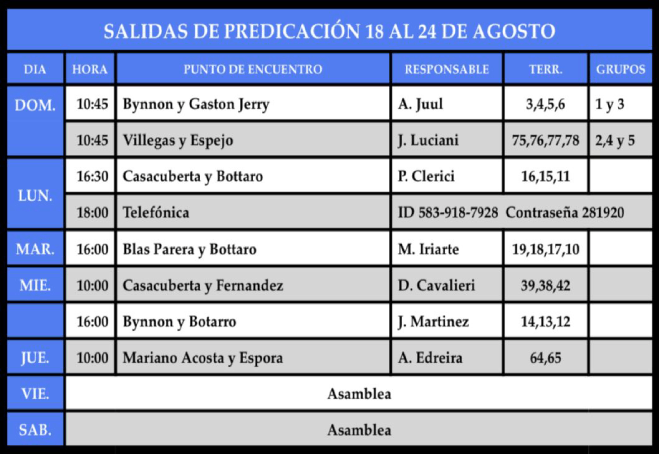
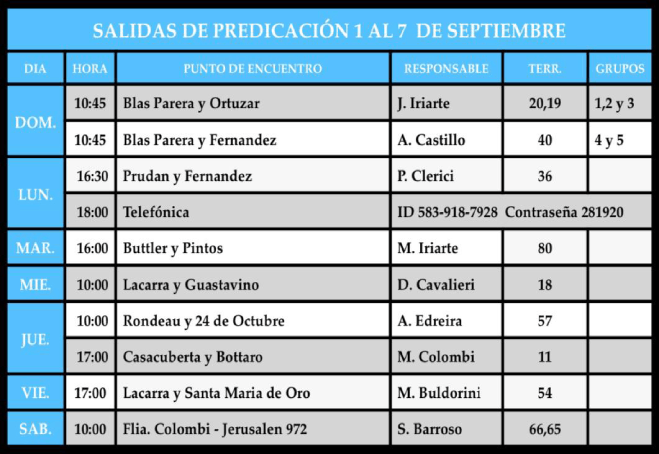
actualizo salida, programa y limpieza

diff --git a/pages/programaSemanal/programaSemanal.html b/pages/programaSemanal/programaSemanal.html
@@ -39,8 +39,8 @@
     <main>
         <section class="reuSemanal">
             <h2> Programa para la reunión entre semana</h2>
-            <img src="./asignacionesAgosto1.png" alt="">
-            <img src="./asignacionesAgosto2.png" alt="">
+            <img src="./asignacionesSeptiembre1.png" alt="">
+            <img src="./asignacionesSeptiembre2.png" alt="">
         </section>
     </main>
     <footer>
